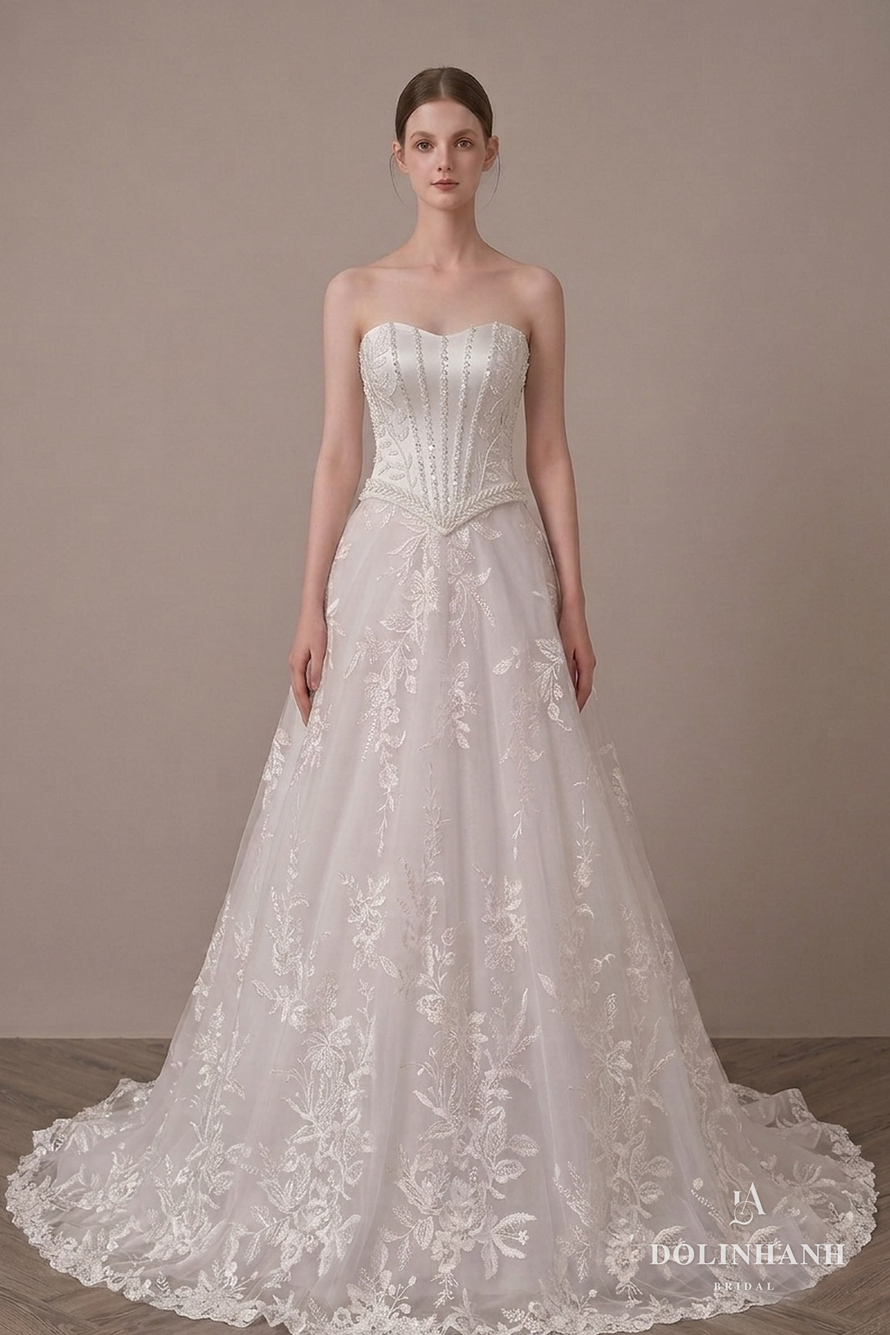
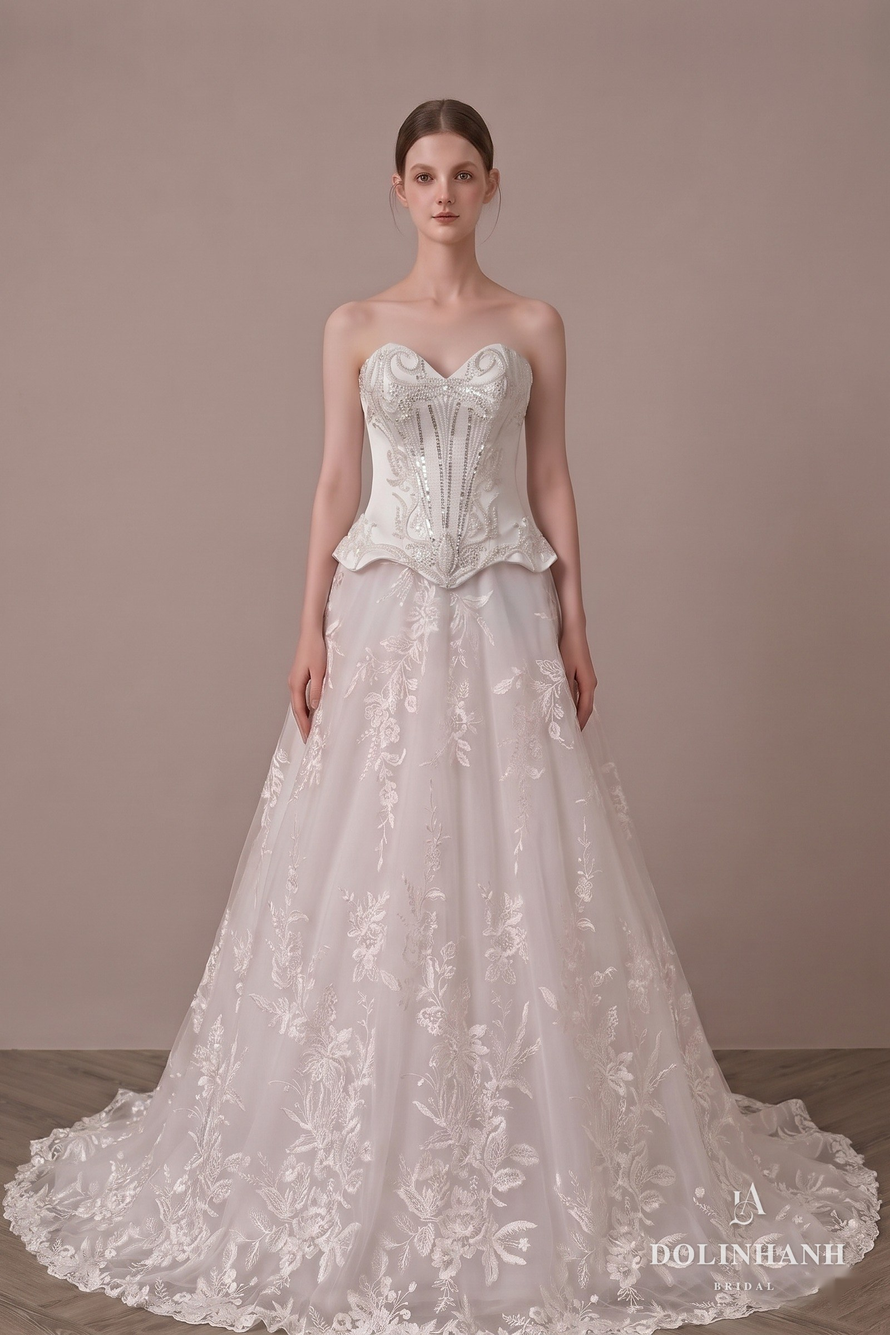
V176: sua anh MS 534: corset theo clip, rut lung 5 chan vay 3

diff --git a/bo-suu-tap.html b/bo-suu-tap.html
@@ -3750,7 +3750,7 @@ src="https://www.facebook.com/tr?id=1358640082651240&ev=PageView&noscript=1"
         </figure>
         <figure data-dang="a-line" data-mood="romantic" data-coso="hcm">
           <div class="sl-khung">
-            <div class="sl" data-img="anh/vay/ms534/01.jpg?v=1"></div>
+            <div class="sl" data-img="anh/vay/ms534/01.jpg?v=0511"></div>
           </div>
           <figcaption><span class="kind" data-en="Dolinhanh Bridal" data-zh="Dolinhanh Bridal">Dolinhanh Bridal</span><span class="nm">MS 534</span><span class="de" data-en="Corset strapless leaf lace A-line" data-zh="束腰抹胸叶片蕾丝A字型婚纱">Cúp ngực corset, chữ A ren lá</span><span class="gia">US$1,880</span></figcaption>
         </figure>
